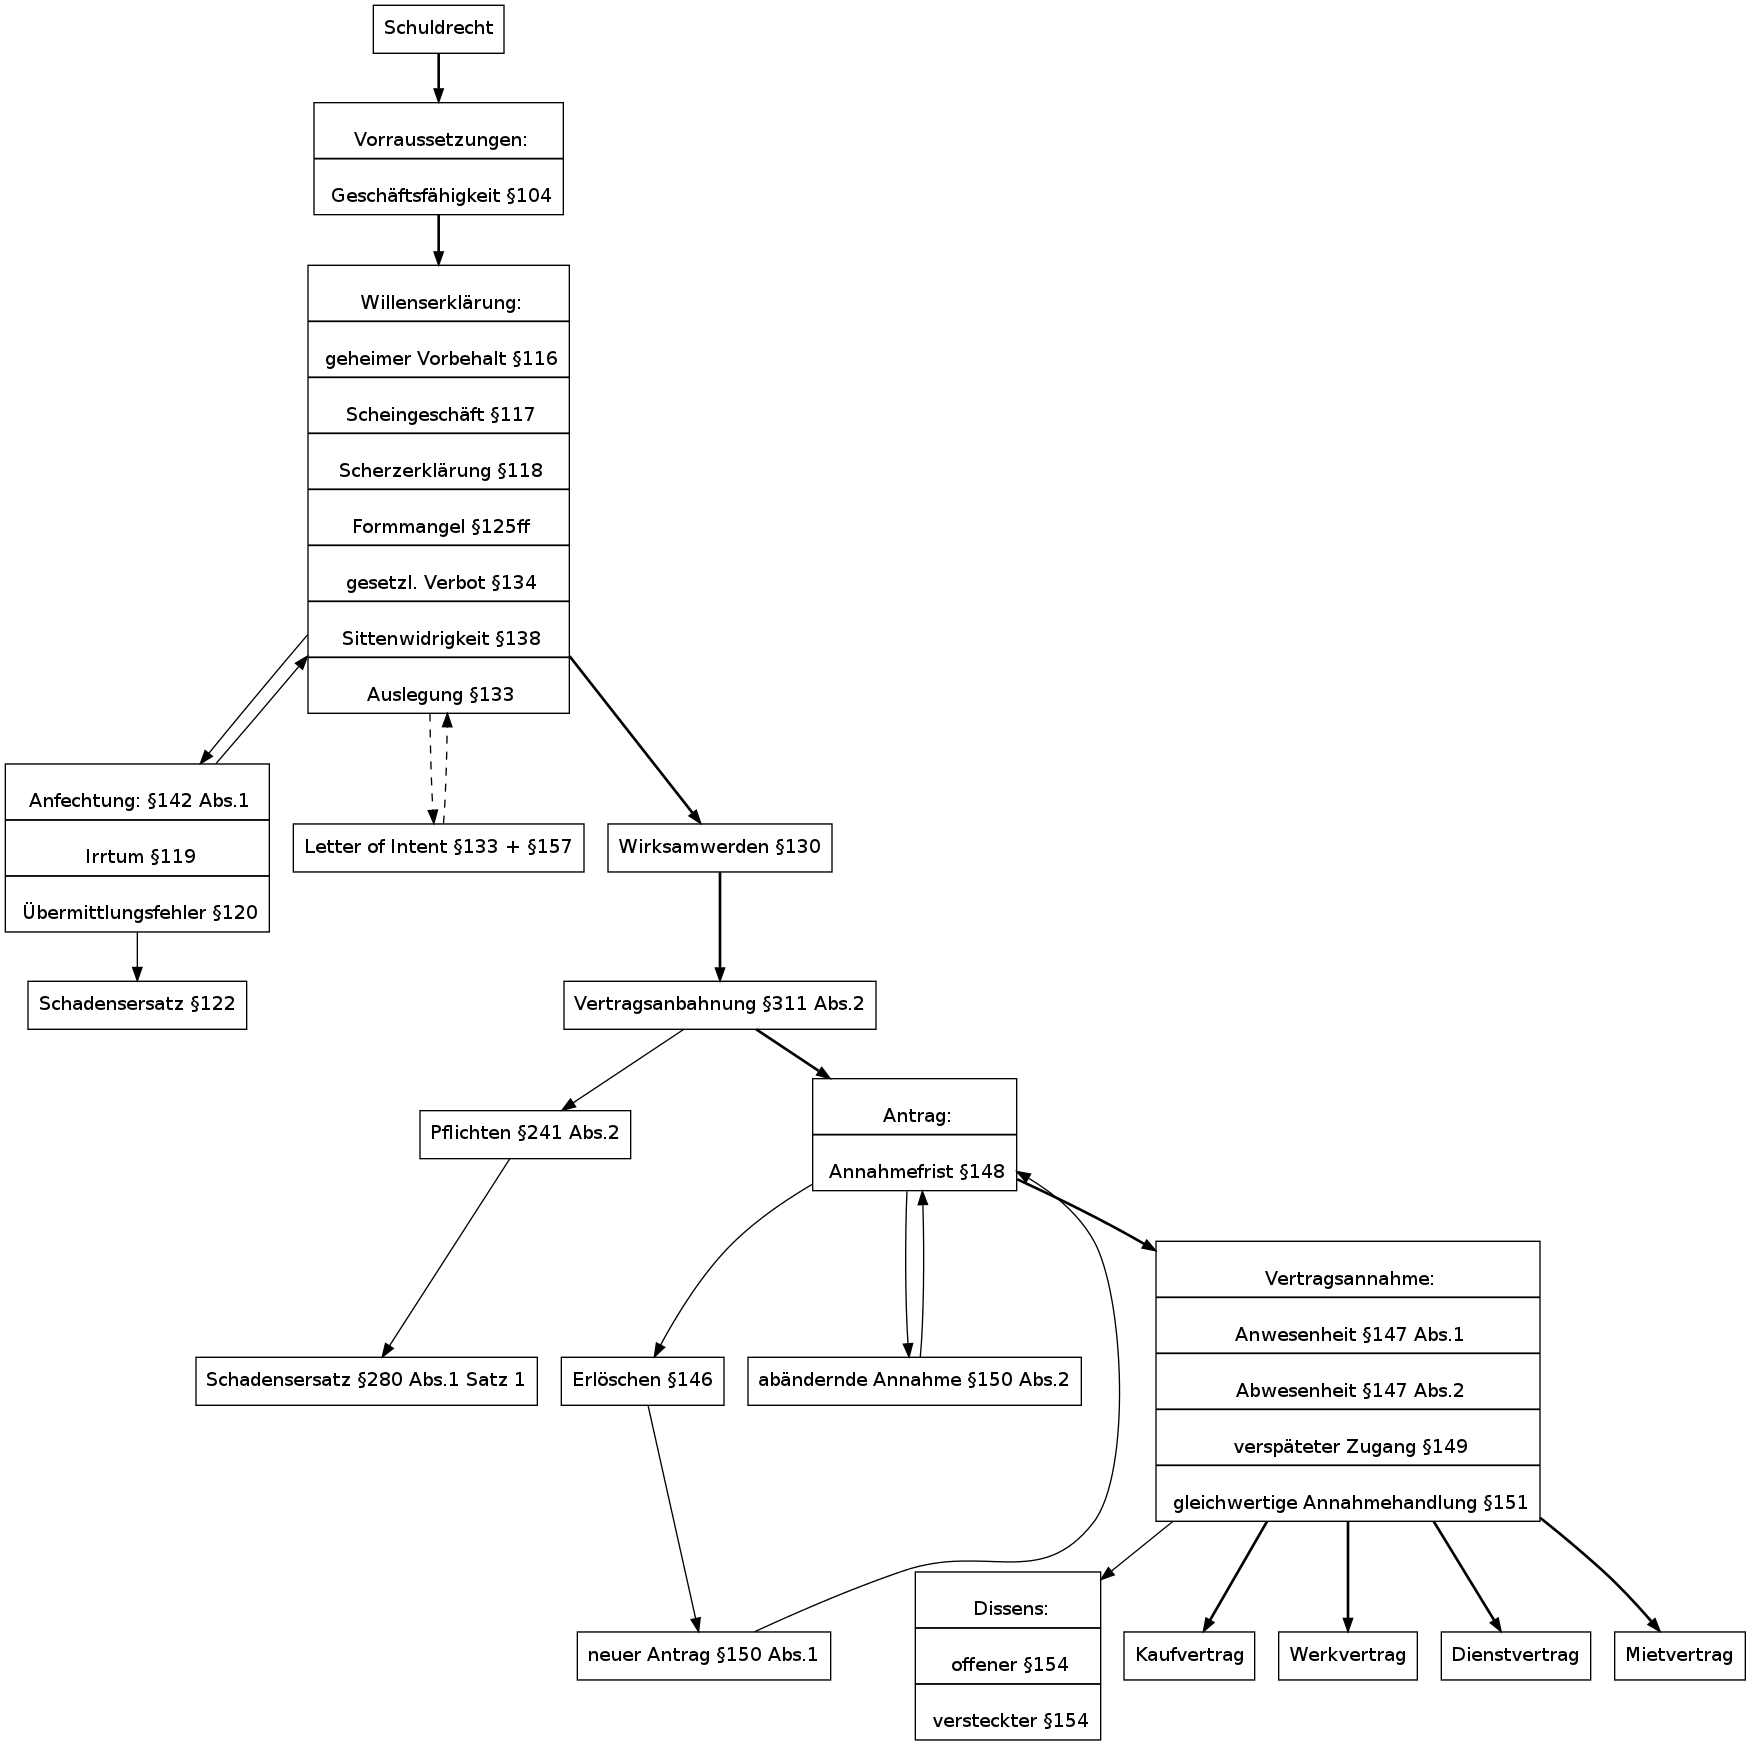
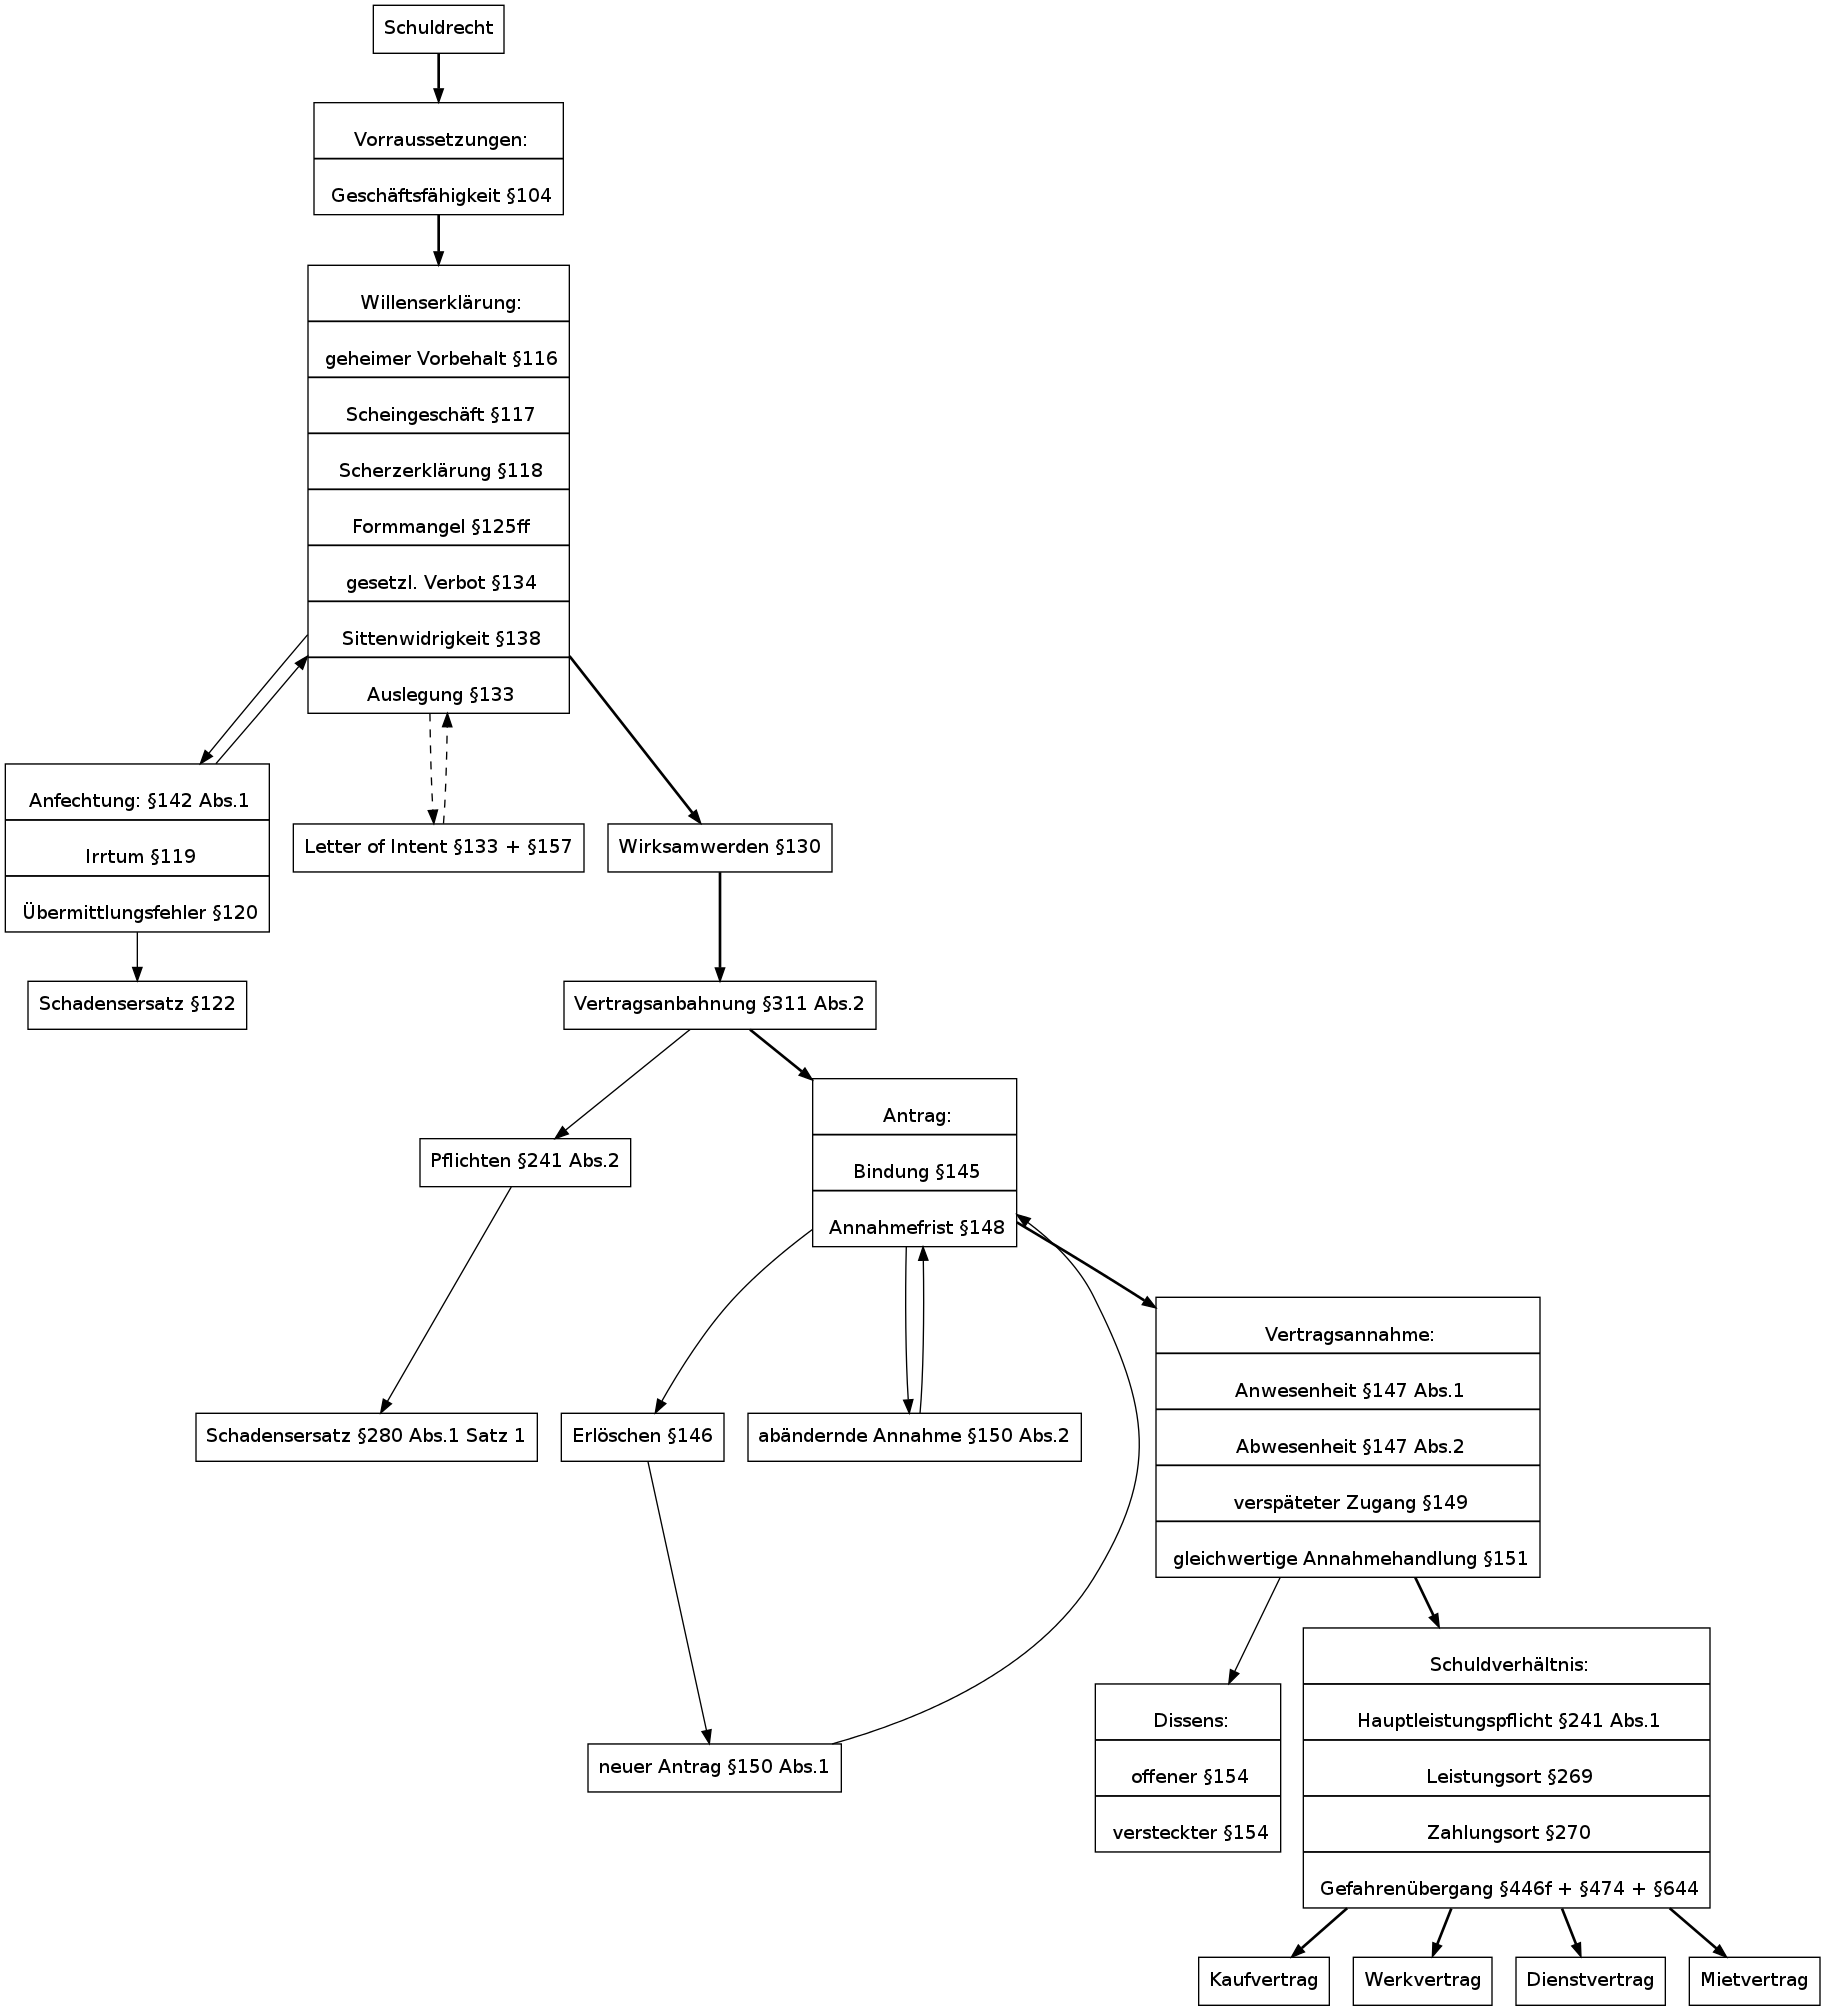
Schuldverhältnis

diff --git a/graph.rb b/graph.rb
@@ -34,6 +34,7 @@ wirk = g.add_nodes("Wirksamwerden §130")
 
 antrag = g.add_nodes("Antrag", "shape" => "record", "label" => "{
   Antrag: |
+  Bindung §145 |
   Annahmefrist §148}")
 antrag_erloescht = g.add_nodes( "Erlöschen §146" )
 antrag_neu = g.add_nodes( "neuer Antrag §150 Abs.1" )
@@ -48,6 +49,13 @@ dissens= g.add_nodes( "Dissens" , "shape" => "record", "label" => "{
   Dissens: |
   offener §154 |
   versteckter §154}")
+
+schuldverh = g.add_nodes("Schuldverhältnis", "shape" => "record", "label" => "{
+  Schuldverhältnis: |
+  Hauptleistungspflicht §241 Abs.1 |
+  Leistungsort §269 |
+  Zahlungsort §270 |
+  Gefahrenübergang §446f + §474 + §644}")
 
 kv = g.add_nodes( "Kaufvertrag" )
 wv = g.add_nodes( "Werkvertrag" )
@@ -77,10 +85,11 @@ g.add_edges( antrag, antrag_aender)
 g.add_edges( antrag_aender, antrag)
 g.add_edges( annahme, dissens)
 
-g.add_edges( annahme, kv , "style" => "bold")
-g.add_edges( annahme, wv , "style" => "bold")
-g.add_edges( annahme, dv , "style" => "bold")
-g.add_edges( annahme, mv , "style" => "bold")
+g.add_edges( annahme, schuldverh, "style" => "bold")
+g.add_edges( schuldverh, kv , "style" => "bold")
+g.add_edges( schuldverh, wv , "style" => "bold")
+g.add_edges( schuldverh, dv , "style" => "bold")
+g.add_edges( schuldverh, mv , "style" => "bold")
 
 # Generate output image
 g.output( :png => "schuldrecht.png" )
